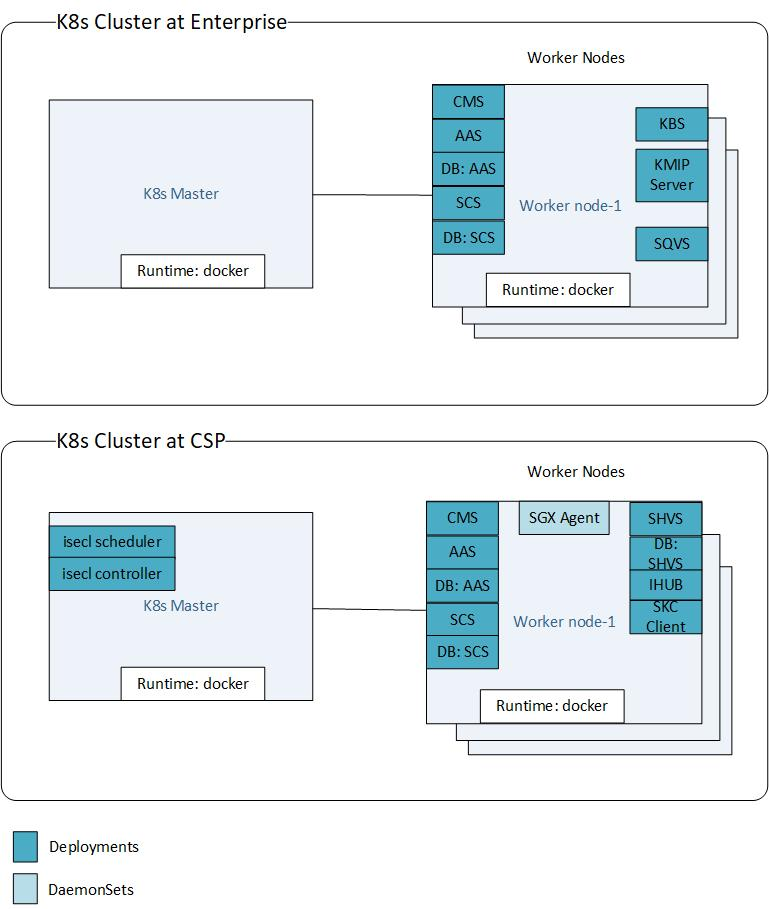
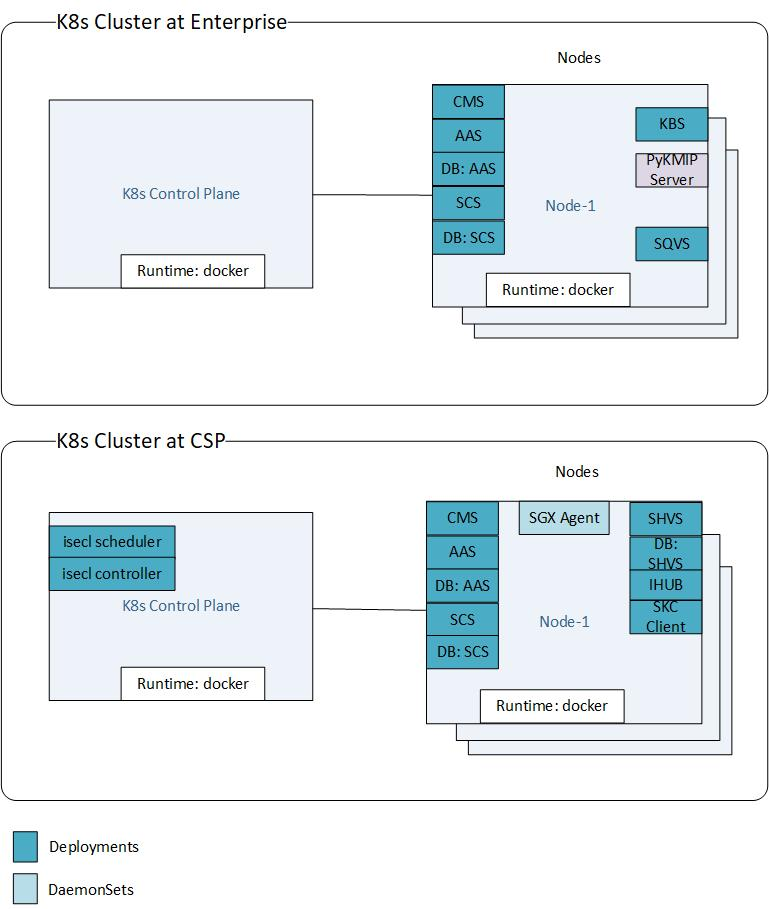
Updated Diagrams

diff --git a/quick-start-guides/Secure Key Caching - Containerization.md b/quick-start-guides/Secure Key Caching - Containerization.md
@@ -158,6 +158,8 @@ The multi node supports `kubeadm` as a supported K8s distribution
 
 ![K8s Deployment-sqx](./images/k8s-deployment-sgx.jpg)
 
+![K8s Multi Deployment-sqx](./images/k8s-multi-deployment-sgx.jpg)
+
 ## Build
 
 ### Pre-requisites
